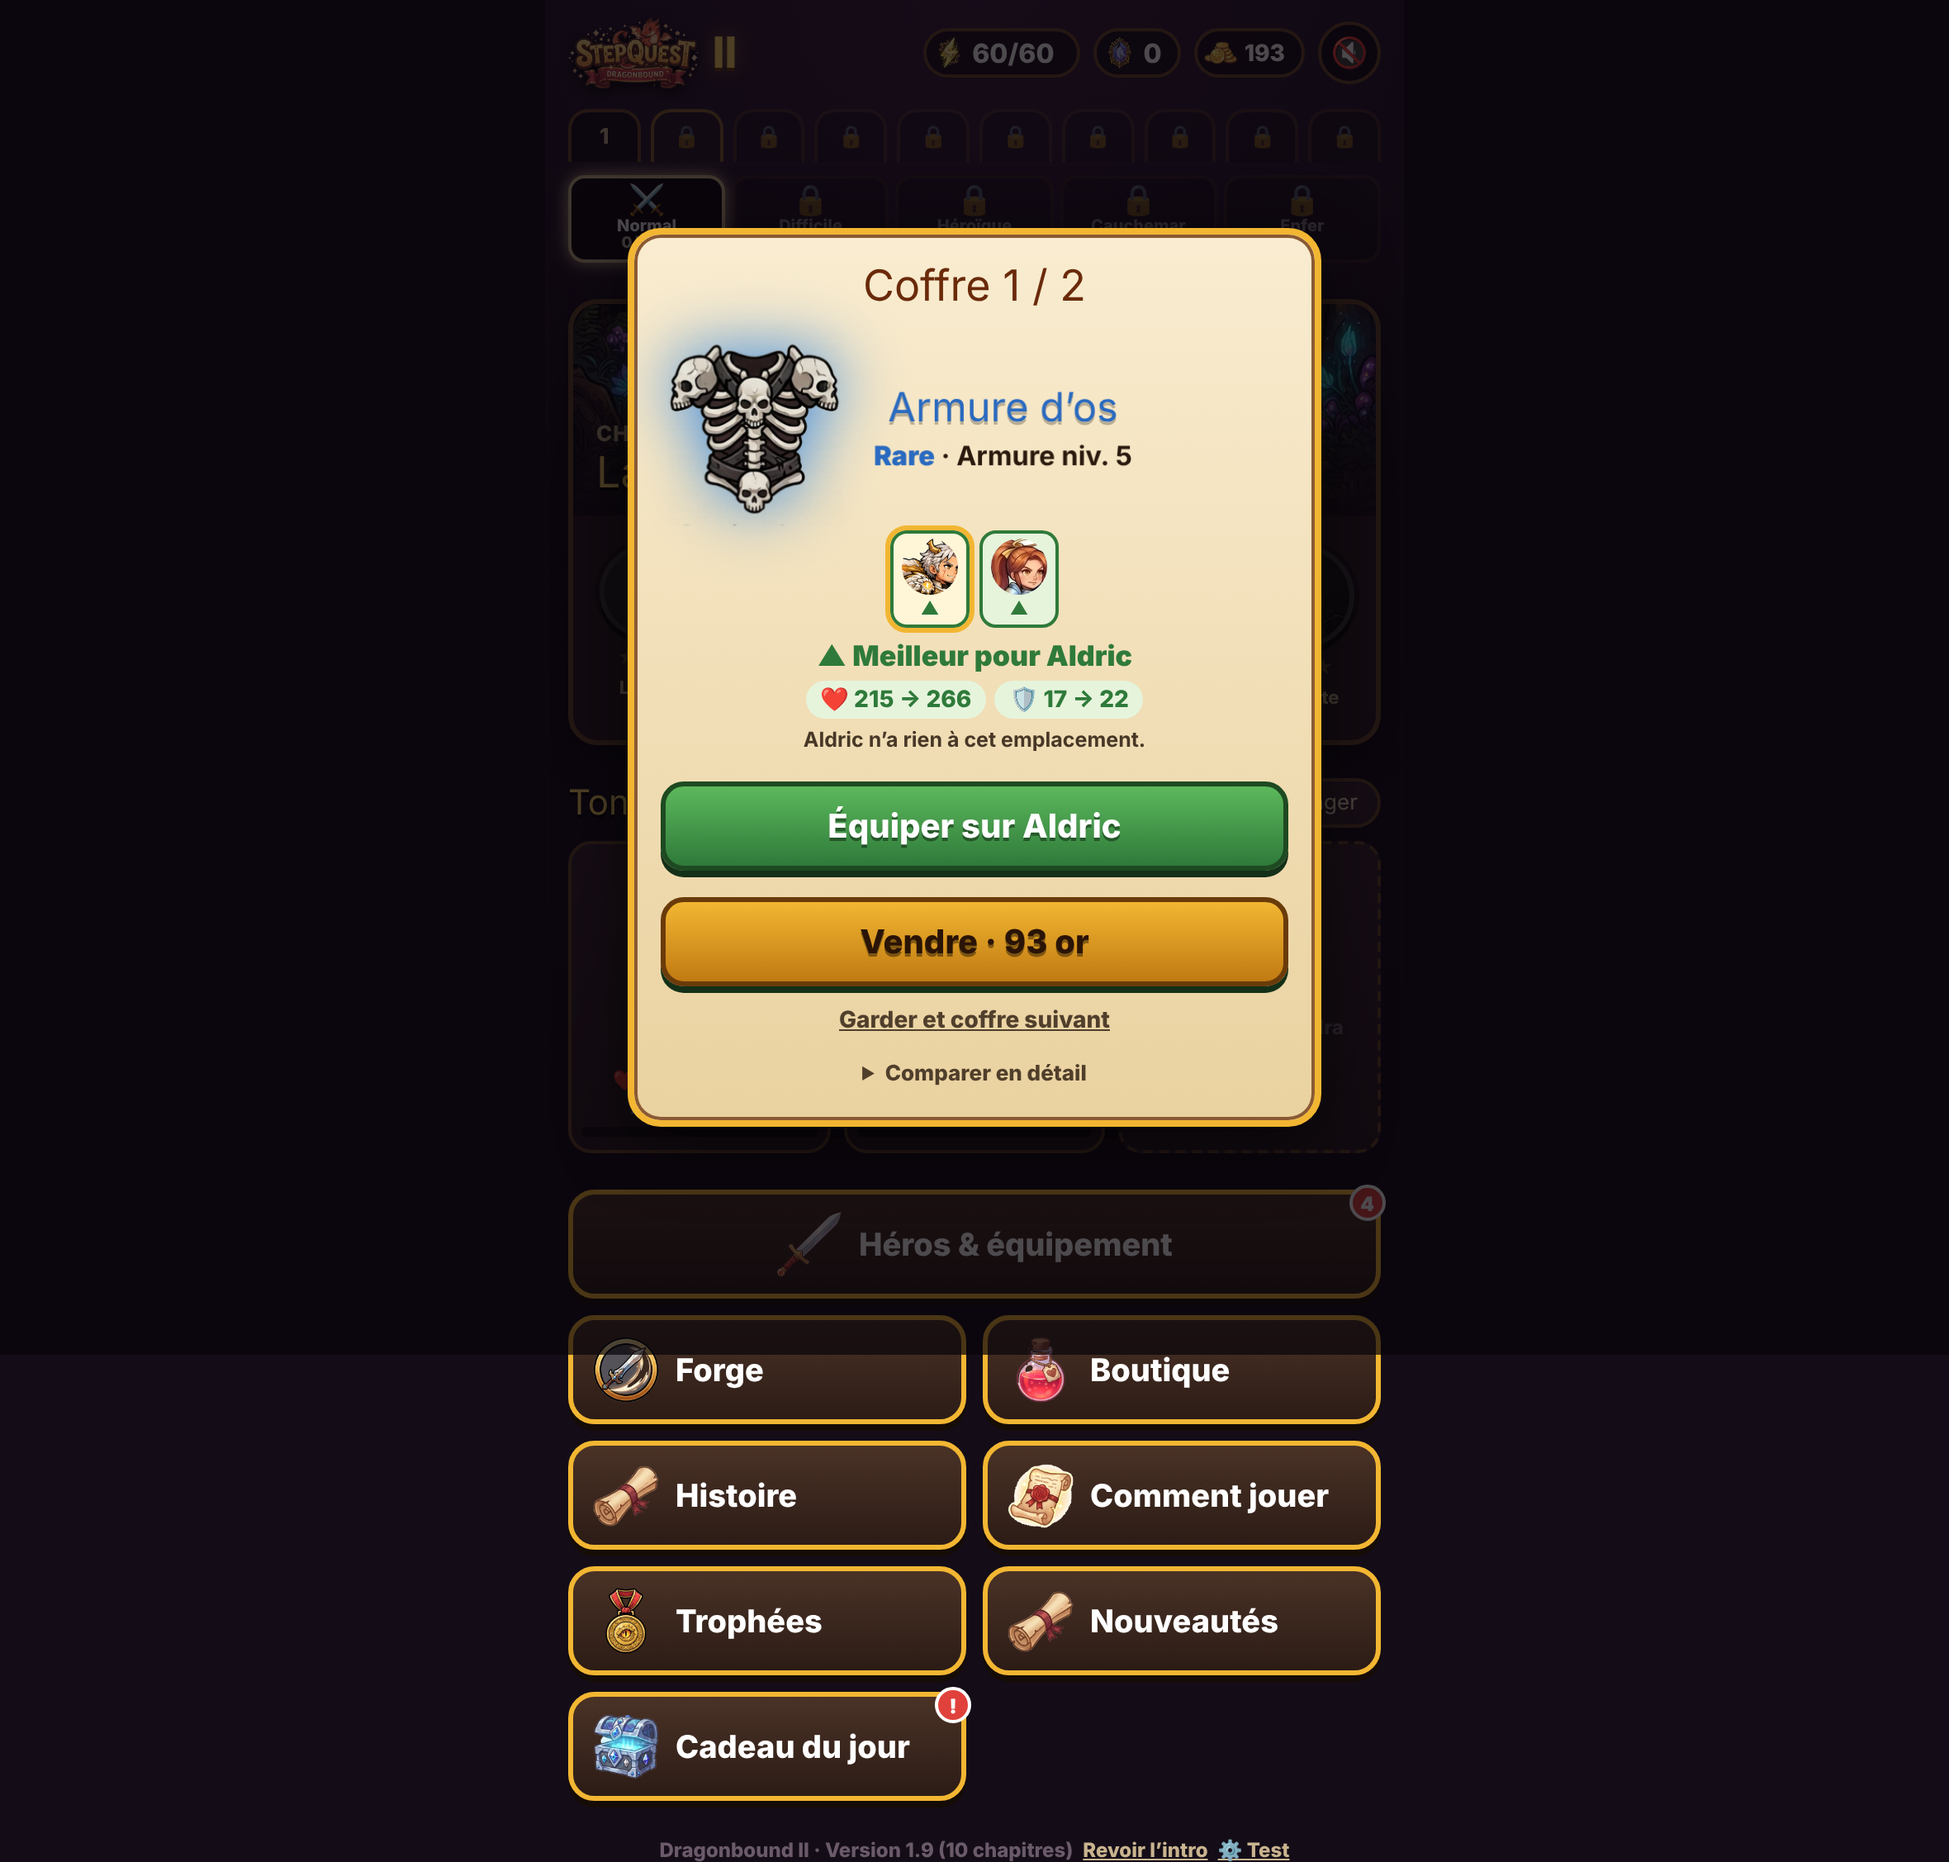
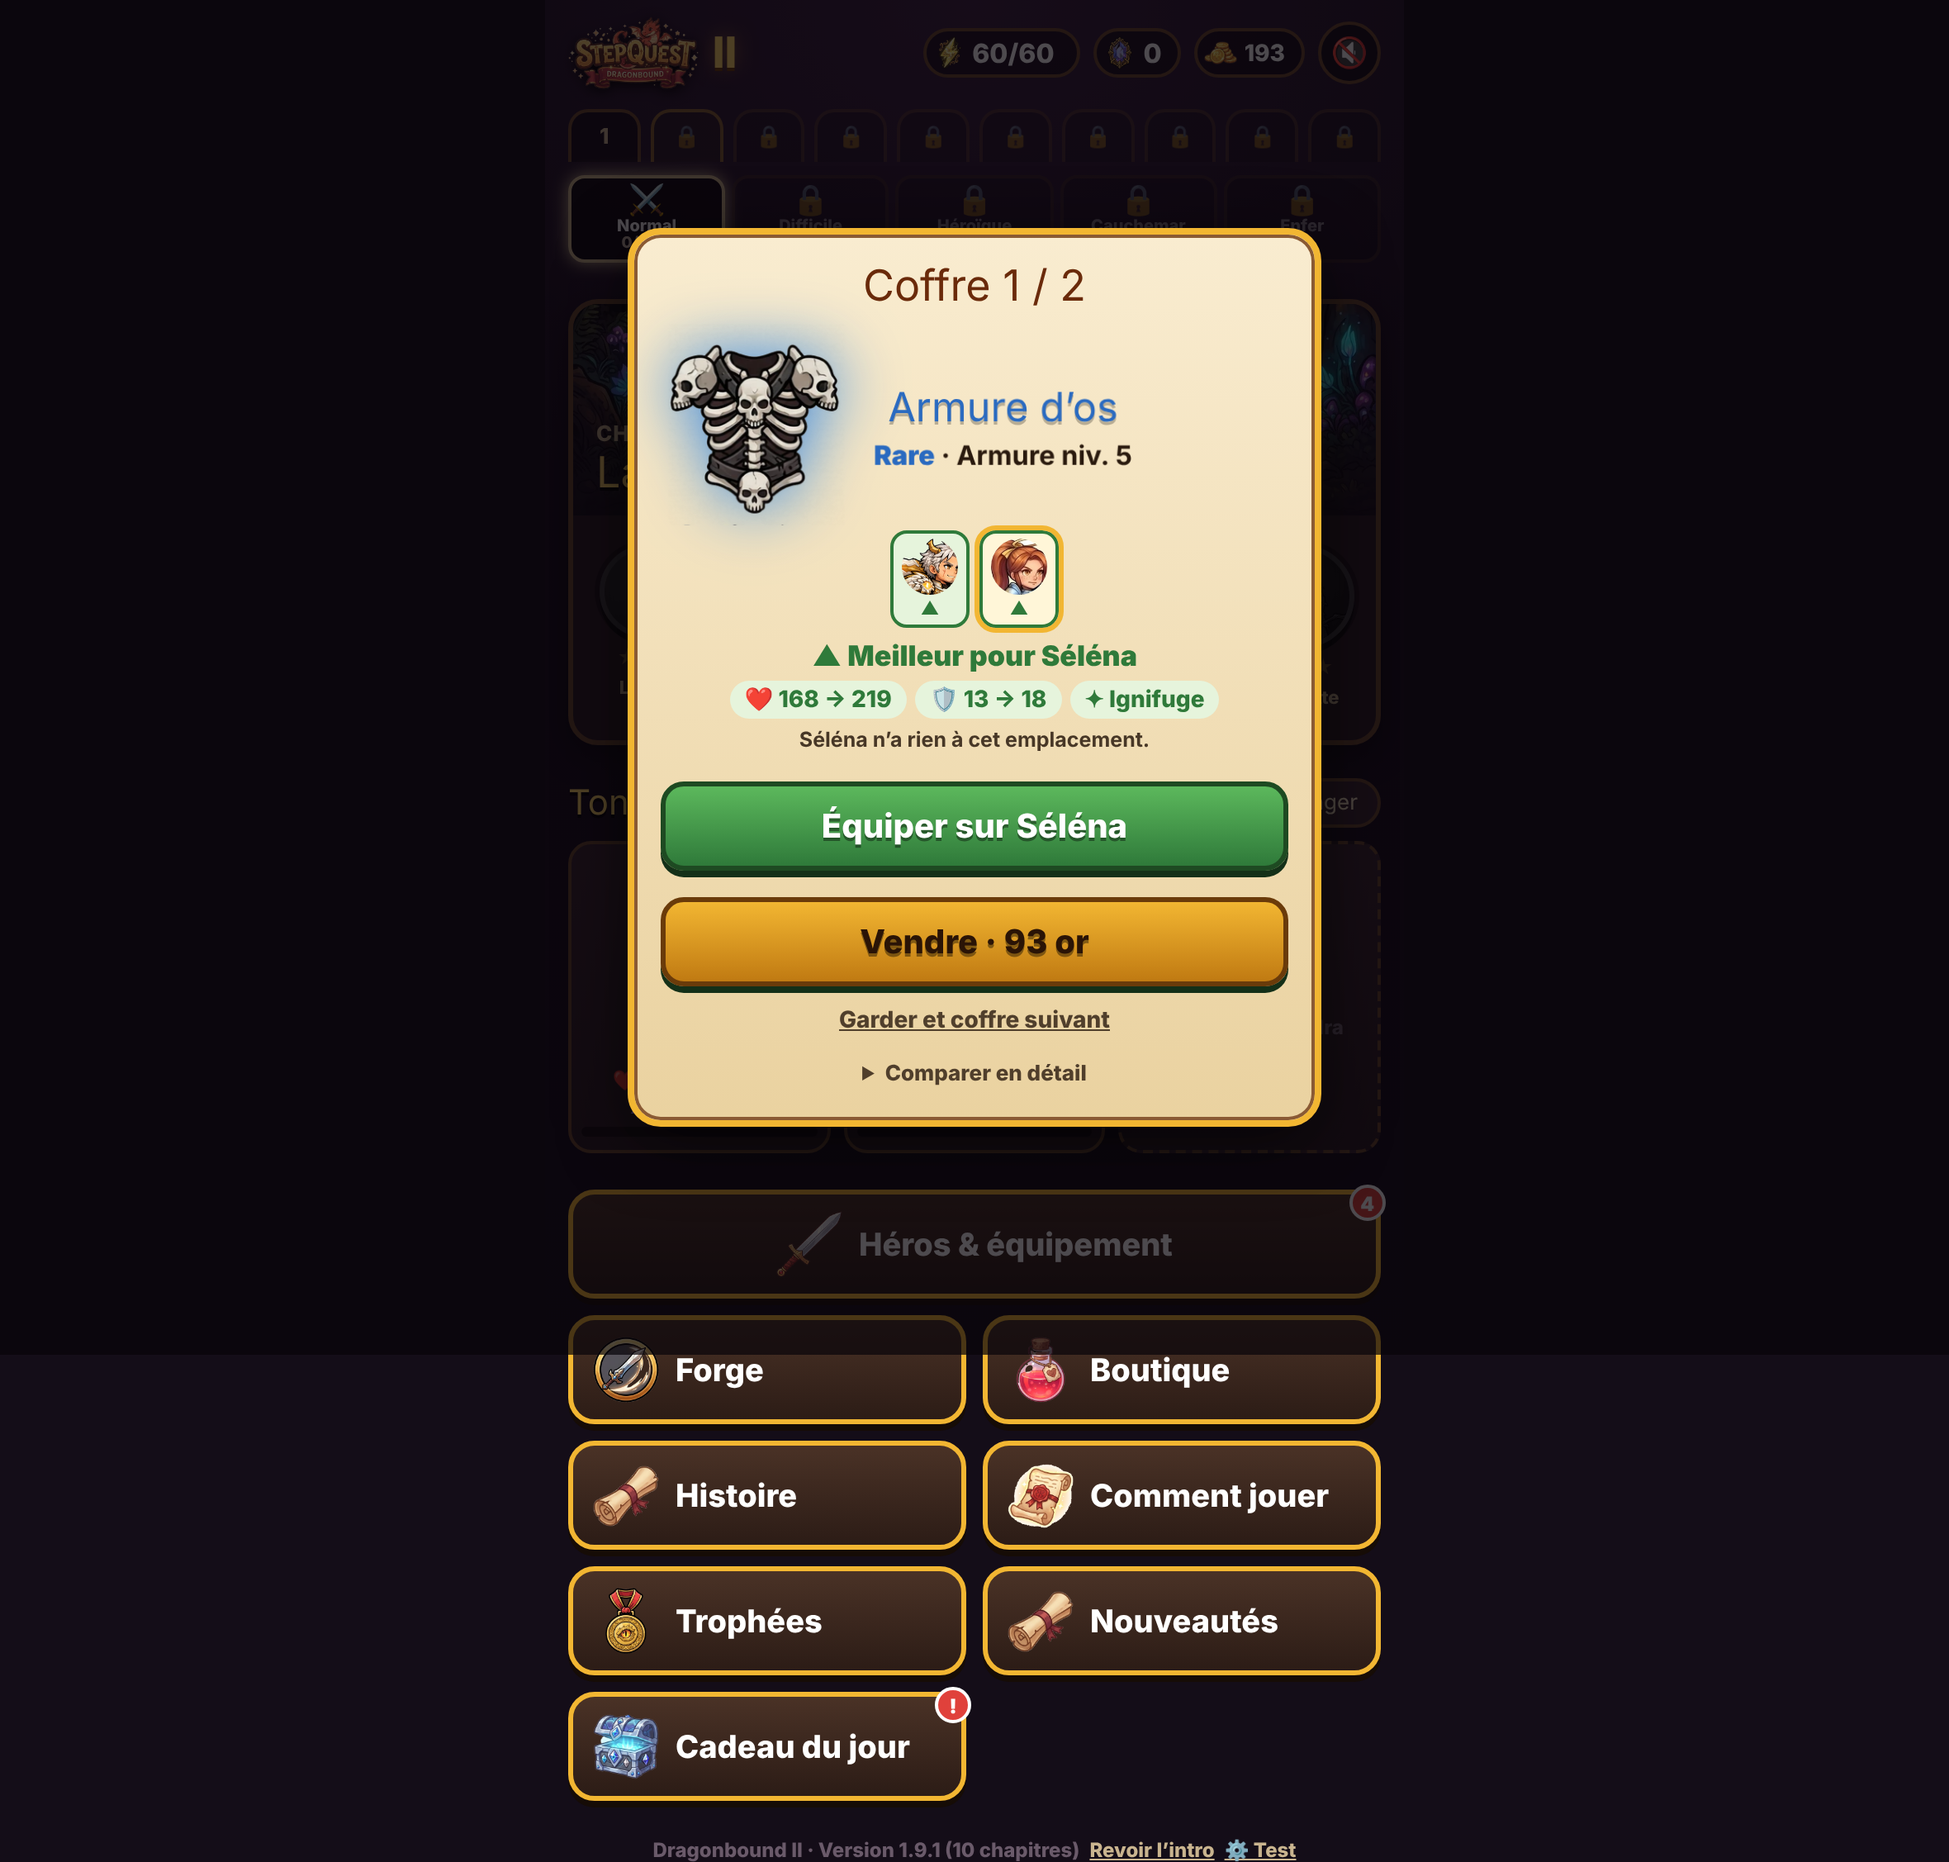
Dragonbound II 1.9.1 : la caméra ne sort plus du décor en zoomant (bande noire pendant la chute des boss)
Claude-Session: https://claude.ai/code/session_01G2LeSq3BZwgWtQEzaTDVtd

Changed region(s): [[0.3712, 0.2795, 0.6186, 0.4037], [0.3403, 0.9938, 0.6805, 1.0], [0.4021, 0.4348, 0.5877, 0.4658]]

diff --git a/prototype/dragonbound2/index.html b/prototype/dragonbound2/index.html
@@ -347,7 +347,7 @@ table.cmp .up { color: #2f7a3a; font-weight: 900; } table.cmp .down { color: #b5
 <script>
 (() => {
 'use strict';
-const VERSION = 'Dragonbound II · Version 1.9 (10 chapitres)';
+const VERSION = 'Dragonbound II · Version 1.9.1 (10 chapitres)';
 const DEV = true; // 1.3: set to false for the commercial build (removes the test menu)
 const IP = '../dragonbound/img/', AP = '../dragonbound/audio/', FP = 'img/';
 const Q = new URLSearchParams(location.search), SIM = Q.has('sim');
@@ -1603,7 +1603,7 @@ function draw(t) {
   const dpr = Math.min(2, devicePixelRatio || 1); if (cv.width !== Math.round(VW * dpr) || cv.height !== Math.round(VH * dpr)) { cv.width = Math.round(VW * dpr); cv.height = Math.round(VH * dpr); }
   const c = cx; c.setTransform(dpr, 0, 0, dpr, 0, 0); c.fillStyle = '#0c0810'; c.fillRect(0, 0, VW, VH);
   const cam = B.cam; if (!B.acting && !pending && !B.fall) cam.tz = 1; if (cam.tz === 1) { cam.tx = VW / 2; cam.ty = VH / 2; }
-  const kk = reduce ? 1 : .08; cam.z += (cam.tz - cam.z) * kk; cam.x += (cam.tx - cam.x) * kk; cam.y += (cam.ty - cam.y) * kk;
+  const kk = reduce ? 1 : .08; cam.z += (cam.tz - cam.z) * kk; cam.x += (cam.tx - cam.x) * kk; cam.y += (cam.ty - cam.y) * kk; { const hx = VW / 2 / Math.max(1, cam.z), hy = VH / 2 / Math.max(1, cam.z); cam.x = Math.min(VW - hx, Math.max(hx, cam.x)); cam.y = Math.min(VH - hy, Math.max(hy, cam.y)); } // 1.9.1: never show past the stage edge
   let sx = 0, sy = 0; if (B.shake) { const k = (now() - B.shake.t0) / 320; if (k >= 1) B.shake = null; else if (k > 0) { sx = rnd(-1, 1) * B.shake.amp * (1 - k); sy = rnd(-1, 1) * B.shake.amp * (1 - k); } }
   c.save(); c.translate(VW / 2 + sx, VH / 2 + sy); c.scale(1 + (cam.z - 1) * .5, 1 + (cam.z - 1) * .5); c.translate(-(VW / 2 + (cam.x - VW / 2) * .5), -(VH / 2 + (cam.y - VH / 2) * .5));
   drawBg(c, B.L); c.restore();
@@ -2151,6 +2151,7 @@ renderHome();
 function afterIntro() { if (!S.seen.in) { S.seen.ver = VER; return story('in', helpSheet); } if (S.seen.ver !== VER) { S.seen.ver = VER; save(); return newsSheet(() => { if (loginReady()) loginSheet(); }); } if (loginReady()) loginSheet(); }
 // 1.1: every version's notes live here; the newest is shown once per version, the whole list from the Nouveautés button
 const CHANGELOG = [
+  { v: '1.9.1', t: 'Version 1.9.1', d: `<p>• La caméra ne sort plus du décor quand elle zoome (plus de bande noire pendant la chute d’un boss).</p>` },
   { v: '1.9', t: 'Version 1.9 · Un combat plus lisible', d: `<p>• <b>Chaque compétence s’explique</b> : touche-la une fois pour voir ce qu’elle fait, son coût et qui elle touche. Touche-la encore (ou touche la cible) pour la lancer. L’attaque de base et la Défense restent en un seul geste.</p><p>• <b>Barre d’actions allégée</b> : icônes plus grandes, et toutes les potions rangées dans le <b>Sac 🎒</b>.</p><p>• Les icônes d’état des héros ne débordent plus.</p>` },
   { v: '1.8.1', t: 'Version 1.8.1', d: `<p>• En portrait, <b>les ennemis et les boss ne collent plus aux héros</b> : caméra un peu plus large et vrai espace entre les deux camps.</p>` },
   { v: '1.8', t: 'Version 1.8 · Des coups qui portent', d: `<p>• <b>Coups synchronisés</b> : l’épée, l’arc et le bâton frappent pile sur l’image du coup. Les dégâts tombent au bon moment.</p><p>• <b>Attaques de zone</b> : chaque cible encaisse à son tour, on voit le coup traverser l’équipe.</p><p>• <b>Chute des boss</b> : ralenti, caméra sur le boss, explosions à ses couleurs et disparition lente.</p>` },

diff --git a/prototype/dragonbound-tests/db211.js b/prototype/dragonbound-tests/db211.js
@@ -8,7 +8,7 @@ const H = ['aldric', 'selena', 'orin', 'lyra', 'nyx'];
 const inv = [{ id: 1, slot: 'w', r: 1, t: 3, st: { atk: 6 }, hero: 'aldric', img: 'wSword', name: 'Épée A' }, { id: 2, slot: 'w', r: 3, t: 8, st: { atk: 20 }, hero: 'aldric', img: 'wSword', name: 'Épée B', pw: 'vampire' },
   { id: 3, slot: 'a', r: 2, t: 5, st: { hp: 40, def: 4 }, img: 'a0armure', name: 'Armure C' }, { id: 4, slot: 'w', r: 2, t: 5, st: { atk: 12 }, hero: 'nyx', img: 'wDaggers', name: 'Dagues N' }];
 const base = o => Object.assign({ v: 2, gold: 100, items: { pot: 3, eth: 1, fea: 1, eli: 0 }, h: Object.fromEntries(H.map(k => [k, { lvl: 6, xp: 0, w: 0, a: 0, eq: k === 'aldric' ? { w: 1 } : {} }])),
-  team: ['aldric', 'selena'], own: { aldric: 1, selena: 1 }, stars: Array(50).fill(0), seen: { in: 1, vid: 1, vid2: 1, n09: 1, n10: 1, ver: '1.9' }, mute: true, ch: 1, inv, nid: 10, spd: 3 }, o);
+  team: ['aldric', 'selena'], own: { aldric: 1, selena: 1 }, stars: Array(50).fill(0), seen: { in: 1, vid: 1, vid2: 1, n09: 1, n10: 1, ver: '1.9.1' }, mute: true, ch: 1, inv, nid: 10, spd: 3 }, o);
 srv.listen(0, async () => {
   const url = `http://127.0.0.1:${srv.address().port}/dragonbound2/index.html`, b = await chromium.launch(), errs = [];
   for (const [w, h, tag] of [[390, 844, 'portrait'], [1180, 820, 'paysage']]) {
@@ -50,7 +50,7 @@ srv.listen(0, async () => {
     // news once per version: old 1.0.2 save (n10, no ver)
     await load(base({ seen: { in: 1, vid: 1, vid2: 1, n09: 1, n10: 1 } })); const h3 = await pg.textContent('#modal:not([hidden]) h3').catch(() => ''); await closeAll();
     await pg.reload(); await pg.click('#title'); await pg.waitForTimeout(500); const again = await pg.$('#modal:not([hidden]) h3') ? await pg.textContent('#modal:not([hidden]) h3') : '';
-    s = await S(); ok(`[${tag}] Nouveautés 1.1 montrées une seule fois (sauvegarde 1.0.2)`, h3.startsWith('Version 1.9') && !again.includes('Version 1.9') && s.seen.ver === '1.9' && s.inv.length === 4, `1er : ${h3} · 2e : ${again || 'rien'}`);
+    s = await S(); ok(`[${tag}] Nouveautés 1.1 montrées une seule fois (sauvegarde 1.0.2)`, h3.startsWith('Version 1.9.1') && !again.includes('Version 1.9.1') && s.seen.ver === '1.9.1' && s.inv.length === 4, `1er : ${h3} · 2e : ${again || 'rien'}`);
     await ctx.close();
   }
   ok('Aucune erreur JavaScript', !errs.length, errs.join(' | '));

diff --git a/prototype/dragonbound-tests/db151.js b/prototype/dragonbound-tests/db151.js
@@ -5,7 +5,7 @@ const srv = http.createServer((q, r) => { const p = path.join(ROOT, decodeURICom
 const H = ['aldric', 'selena', 'orin', 'lyra', 'nyx'], res = [], ok = (n, c, x = '') => res.push(`${c ? '✅' : '❌'} ${n}${x ? ' — ' + x : ''}`);
 const it = (id, slot, r, st, hero) => ({ id, slot, r, t: 5, st, hero, name: 'x' });
 const inv = [it(1, 'w', 0, { atk: 5 }, 'aldric'), it(2, 'w', 4, { atk: 50 }, 'aldric'), it(3, 'a', 0, { hp: 10, def: 1 }), it(4, 'a', 1, { hp: 15, def: 1 }), it(5, 'a', 3, { hp: 80, def: 8 }), it(6, 'j', 2, { crit: .01 }), it(7, 'a', 4, { hp: 200, def: 20 })];
-const save = { v: 2, gold: 100, gem: 0, items: { pot: 3, eth: 1, fea: 1, eli: 0 }, h: Object.fromEntries(H.map(k => [k, { lvl: 10, xp: 0, w: 0, a: 0, eq: k === 'aldric' ? { w: 2, a: 7 } : {} }])), team: ['aldric'], own: { aldric: 1 }, stars: Array(50).fill(0), seen: { in: 1, vid: 1, vid2: 1, n09: 1, n10: 1, ver: '1.9' }, mute: true, ch: 0, inv, nid: 20, spd: 1, m12: 1, tc: { kills: 1200, thermal: 20, embrase: 20, brise: 20 } };
+const save = { v: 2, gold: 100, gem: 0, items: { pot: 3, eth: 1, fea: 1, eli: 0 }, h: Object.fromEntries(H.map(k => [k, { lvl: 10, xp: 0, w: 0, a: 0, eq: k === 'aldric' ? { w: 2, a: 7 } : {} }])), team: ['aldric'], own: { aldric: 1 }, stars: Array(50).fill(0), seen: { in: 1, vid: 1, vid2: 1, n09: 1, n10: 1, ver: '1.9.1' }, mute: true, ch: 0, inv, nid: 20, spd: 1, m12: 1, tc: { kills: 1200, thermal: 20, embrase: 20, brise: 20 } };
 srv.listen(0, async () => { const b = await chromium.launch(), pg = await b.newPage(), errs = []; pg.on('pageerror', e => errs.push(e.message));
   const url = `http://127.0.0.1:${srv.address().port}/dragonbound2/index.html`, S = () => pg.evaluate(k => JSON.parse(localStorage.getItem(k)), KEY);
   await pg.goto(url); await pg.evaluate(([k, s]) => localStorage.setItem(k, JSON.stringify(s)), [KEY, save]); await pg.goto(url); await pg.click('#title'); await pg.waitForTimeout(500);

diff --git a/prototype/dragonbound-tests/db212.js b/prototype/dragonbound-tests/db212.js
@@ -9,7 +9,7 @@ const H = ['aldric', 'selena', 'orin', 'lyra', 'nyx'];
 const inv = [{ id: 1, slot: 'w', r: 2, t: 12, st: { atk: 20 }, hero: 'aldric', img: 'wAxe', name: 'Hache du bourreau' }, { id: 2, slot: 'a', r: 3, t: 12, st: { hp: 90, def: 9 }, img: 'a2armure', name: 'Armure de braise' },
   { id: 3, slot: 'j', r: 2, t: 33, st: { crit: .05 }, img: 'a4amulette', name: 'Pendentif de givre' }, { id: 4, slot: 'w', r: 4, t: 48, st: { mag: 60, crit: .08 }, hero: 'orin', img: 'wLegM', name: 'Bâton du Néant' }, { id: 5, slot: 'a', r: 0, t: 3, st: { hp: 20, def: 1 }, img: 'a0armure', name: 'Armure d’os' }];
 const base = o => Object.assign({ v: 2, gold: 1000, gem: 0, items: { pot: 3, eth: 1, fea: 1, eli: 0 }, h: Object.fromEntries(H.map(k => [k, { lvl: 12, xp: 0, w: 2, a: 2, eq: k === 'aldric' ? { w: 1, a: 2 } : {} }])),
-  team: ['aldric', 'selena', 'orin'], own: { aldric: 1, selena: 1, orin: 1 }, stars: [3, 3, 3, 3, 3, 2].concat(Array(44).fill(0)), seen: { in: 1, vid: 1, vid2: 1, n09: 1, n10: 1, ver: '1.9', in2: 1 }, mute: true, ch: 1, inv, nid: 10, spd: 3 }, o);
+  team: ['aldric', 'selena', 'orin'], own: { aldric: 1, selena: 1, orin: 1 }, stars: [3, 3, 3, 3, 3, 2].concat(Array(44).fill(0)), seen: { in: 1, vid: 1, vid2: 1, n09: 1, n10: 1, ver: '1.9.1', in2: 1 }, mute: true, ch: 1, inv, nid: 10, spd: 3 }, o);
 srv.listen(0, async () => {
   const url = `http://127.0.0.1:${srv.address().port}/dragonbound2/index.html`, b = await chromium.launch(), errs = [];
   for (const [w, h, tag] of [[390, 844, 'portrait'], [1180, 820, 'paysage']]) {

diff --git a/prototype/dragonbound-tests/db2check.js b/prototype/dragonbound-tests/db2check.js
@@ -6,7 +6,7 @@ const MIME = { '.html': 'text/html', '.webp': 'image/webp', '.jpg': 'image/jpeg'
 const srv = http.createServer((q, r) => { const p = path.join(ROOT, decodeURIComponent(q.url.split('?')[0])); fs.readFile(p, (e, d) => { if (e) { r.writeHead(404); return r.end(); } r.writeHead(200, { 'content-type': MIME[path.extname(p)] || 'application/octet-stream' }); r.end(d); }); });
 const res = [], ok = (name, cond, extra = '') => res.push(`${cond ? '✅' : '❌'} ${name}${extra ? ' — ' + extra : ''}`);
 const base = over => Object.assign({ v: 2, gold: 100, items: { pot: 3, eth: 1, fea: 1, eli: 0 }, h: Object.fromEntries(['aldric', 'selena', 'orin', 'lyra', 'nyx'].map(k => [k, { lvl: 3, xp: 0, w: 0, a: 0 }])),
-  team: ['aldric'], own: { aldric: 1 }, stars: Array(30).fill(0), seen: { in: 1, vid: 1, vid2: 1, n09: 1, n10: 1, ver: '1.9' }, mute: true, ch: 0, inv: [], nid: 1, spd: 3 }, over);
+  team: ['aldric'], own: { aldric: 1 }, stars: Array(30).fill(0), seen: { in: 1, vid: 1, vid2: 1, n09: 1, n10: 1, ver: '1.9.1' }, mute: true, ch: 0, inv: [], nid: 1, spd: 3 }, over);
 srv.listen(0, async () => {
   const url = `http://127.0.0.1:${srv.address().port}/dragonbound2/index.html`, b = await chromium.launch(), errs = [];
   const ctx = await b.newContext({ viewport: { width: 390, height: 844 }, deviceScaleFactor: 2, hasTouch: true });
